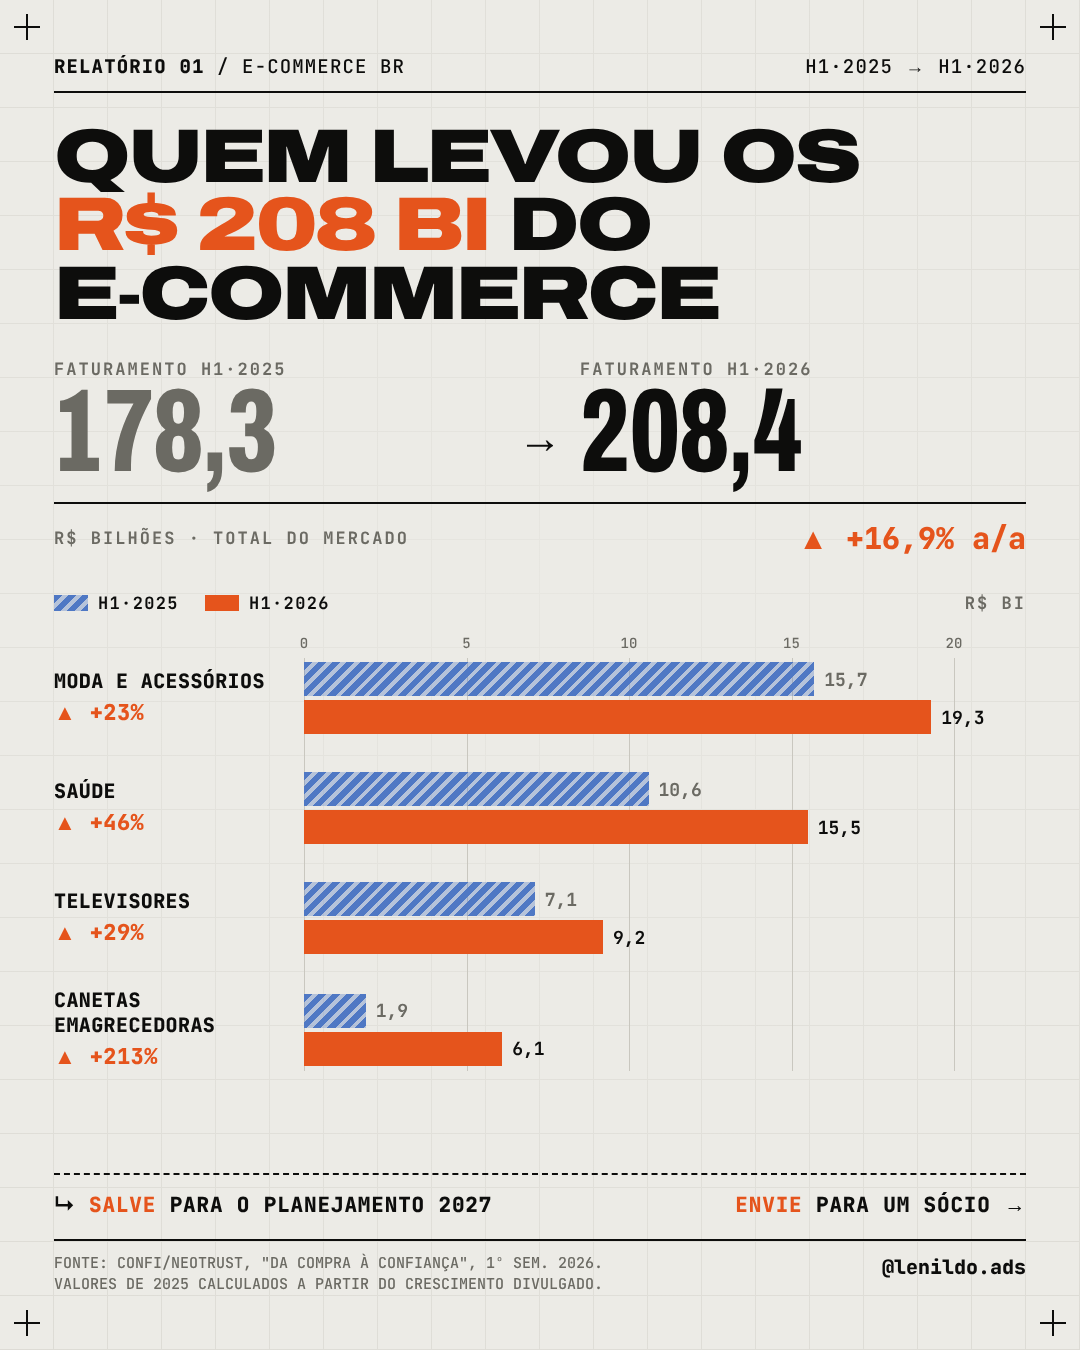
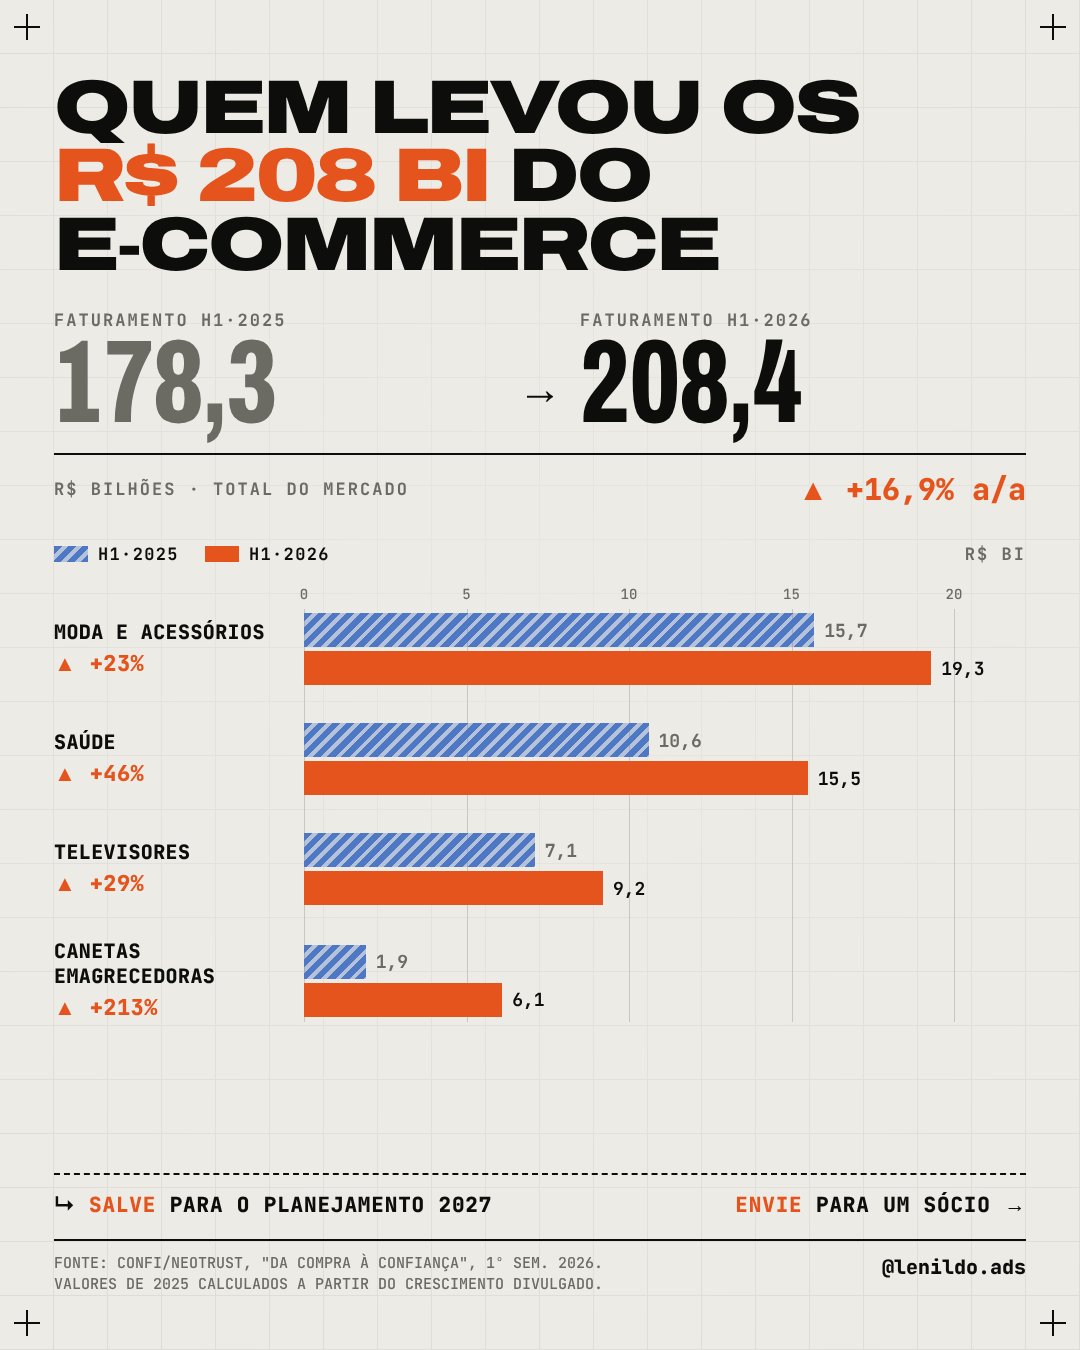
Remove header from e-commerce data posts
Claude-Session: https://claude.ai/code/session_016ZsuYM2fNvgBpuDKyd2iM9

Changed region(s): [[0.0306, 0.0311, 0.9472, 0.8089], [0.275, 0.4044, 0.8861, 0.8089], [0.9167, 0.0311, 0.9472, 0.0622]]

diff --git a/tools/ecom_posts/v2p2.html b/tools/ecom_posts/v2p2.html
@@ -1,5 +1,5 @@
 <link rel="stylesheet" href="v2.css"><style>
-h1{font-size:70px;margin-top:30px}
+h1{font-size:70px;margin-top:20px}
 .split{display:grid;grid-template-columns:1fr 1fr;border-top:2px solid var(--ink);border-bottom:2px solid var(--ink);margin-top:30px}
 .split>div{padding:18px 0 16px}.split>div+div{border-left:2px solid var(--ink);padding-left:26px}
 .split .n{font-size:104px;margin-top:6px}.split .s{font:600 18px/1.4 'JetBrains Mono';color:var(--mut);margin-top:6px}
@@ -15,7 +15,7 @@ h1{font-size:70px;margin-top:30px}
 </style>
 <div class="reg" style="left:14px;top:14px"></div><div class="reg" style="right:14px;top:14px"></div><div class="reg" style="left:14px;bottom:14px"></div><div class="reg" style="right:14px;bottom:14px"></div>
 <div class="wrap">
-<div class="meta"><span><b>RELATÓRIO 02</b> / MODA ONLINE</span><span>H1·2025 → H1·2026</span></div>
+
 <h1 class="disp">Moda lidera.<br><span class="sig">O esporte</span> virou<br>o jogo.</h1>
 <div class="split"><div><div class="lab">Moda e acessórios · H1·2026</div><div class="cond n">R$ 19,3 bi</div><div class="s">era R$ 15,7 bi · <span class="sig" style="font-weight:800">▲ +23%</span></div></div>
 <div><div class="lab">Camisa da Seleção</div><div class="cond n">48,7%</div><div class="s">das vendas de camisas esportivas<br>era 5,1% em H1·2025</div></div></div>

diff --git a/tools/ecom_posts/v2p1.html b/tools/ecom_posts/v2p1.html
@@ -1,5 +1,5 @@
 <link rel="stylesheet" href="v2.css"><style>
-h1{font-size:76px;margin-top:30px}
+h1{font-size:76px;margin-top:20px}
 .hero{display:grid;grid-template-columns:1fr auto 1fr;align-items:end;margin-top:30px;border-bottom:2px solid var(--ink);padding-bottom:18px}
 .hero .n{font-size:118px}.hero .ar{font:500 44px 'JetBrains Mono';padding:0 18px 18px}
 .delta{display:flex;justify-content:space-between;align-items:center;margin-top:14px}
@@ -17,7 +17,7 @@ h1{font-size:76px;margin-top:30px}
 </style>
 <div class="reg" style="left:14px;top:14px"></div><div class="reg" style="right:14px;top:14px"></div><div class="reg" style="left:14px;bottom:14px"></div><div class="reg" style="right:14px;bottom:14px"></div>
 <div class="wrap">
-<div class="meta"><span><b>RELATÓRIO 01</b> / E-COMMERCE BR</span><span>H1·2025 → H1·2026</span></div>
+
 <h1 class="disp">Quem levou os<br><span class="sig" style="white-space:nowrap">R$ 208 bi</span> do<br>e&#8209;commerce</h1>
 <div class="hero"><div><div class="lab">Faturamento H1·2025</div><div class="cond n" style="color:var(--mut)">178,3</div></div><div class="ar">→</div><div><div class="lab">Faturamento H1·2026</div><div class="cond n">208,4</div></div></div>
 <div class="delta"><span class="lab">R$ bilhões · total do mercado</span><span class="p sig">▲ +16,9% a/a</span></div>
